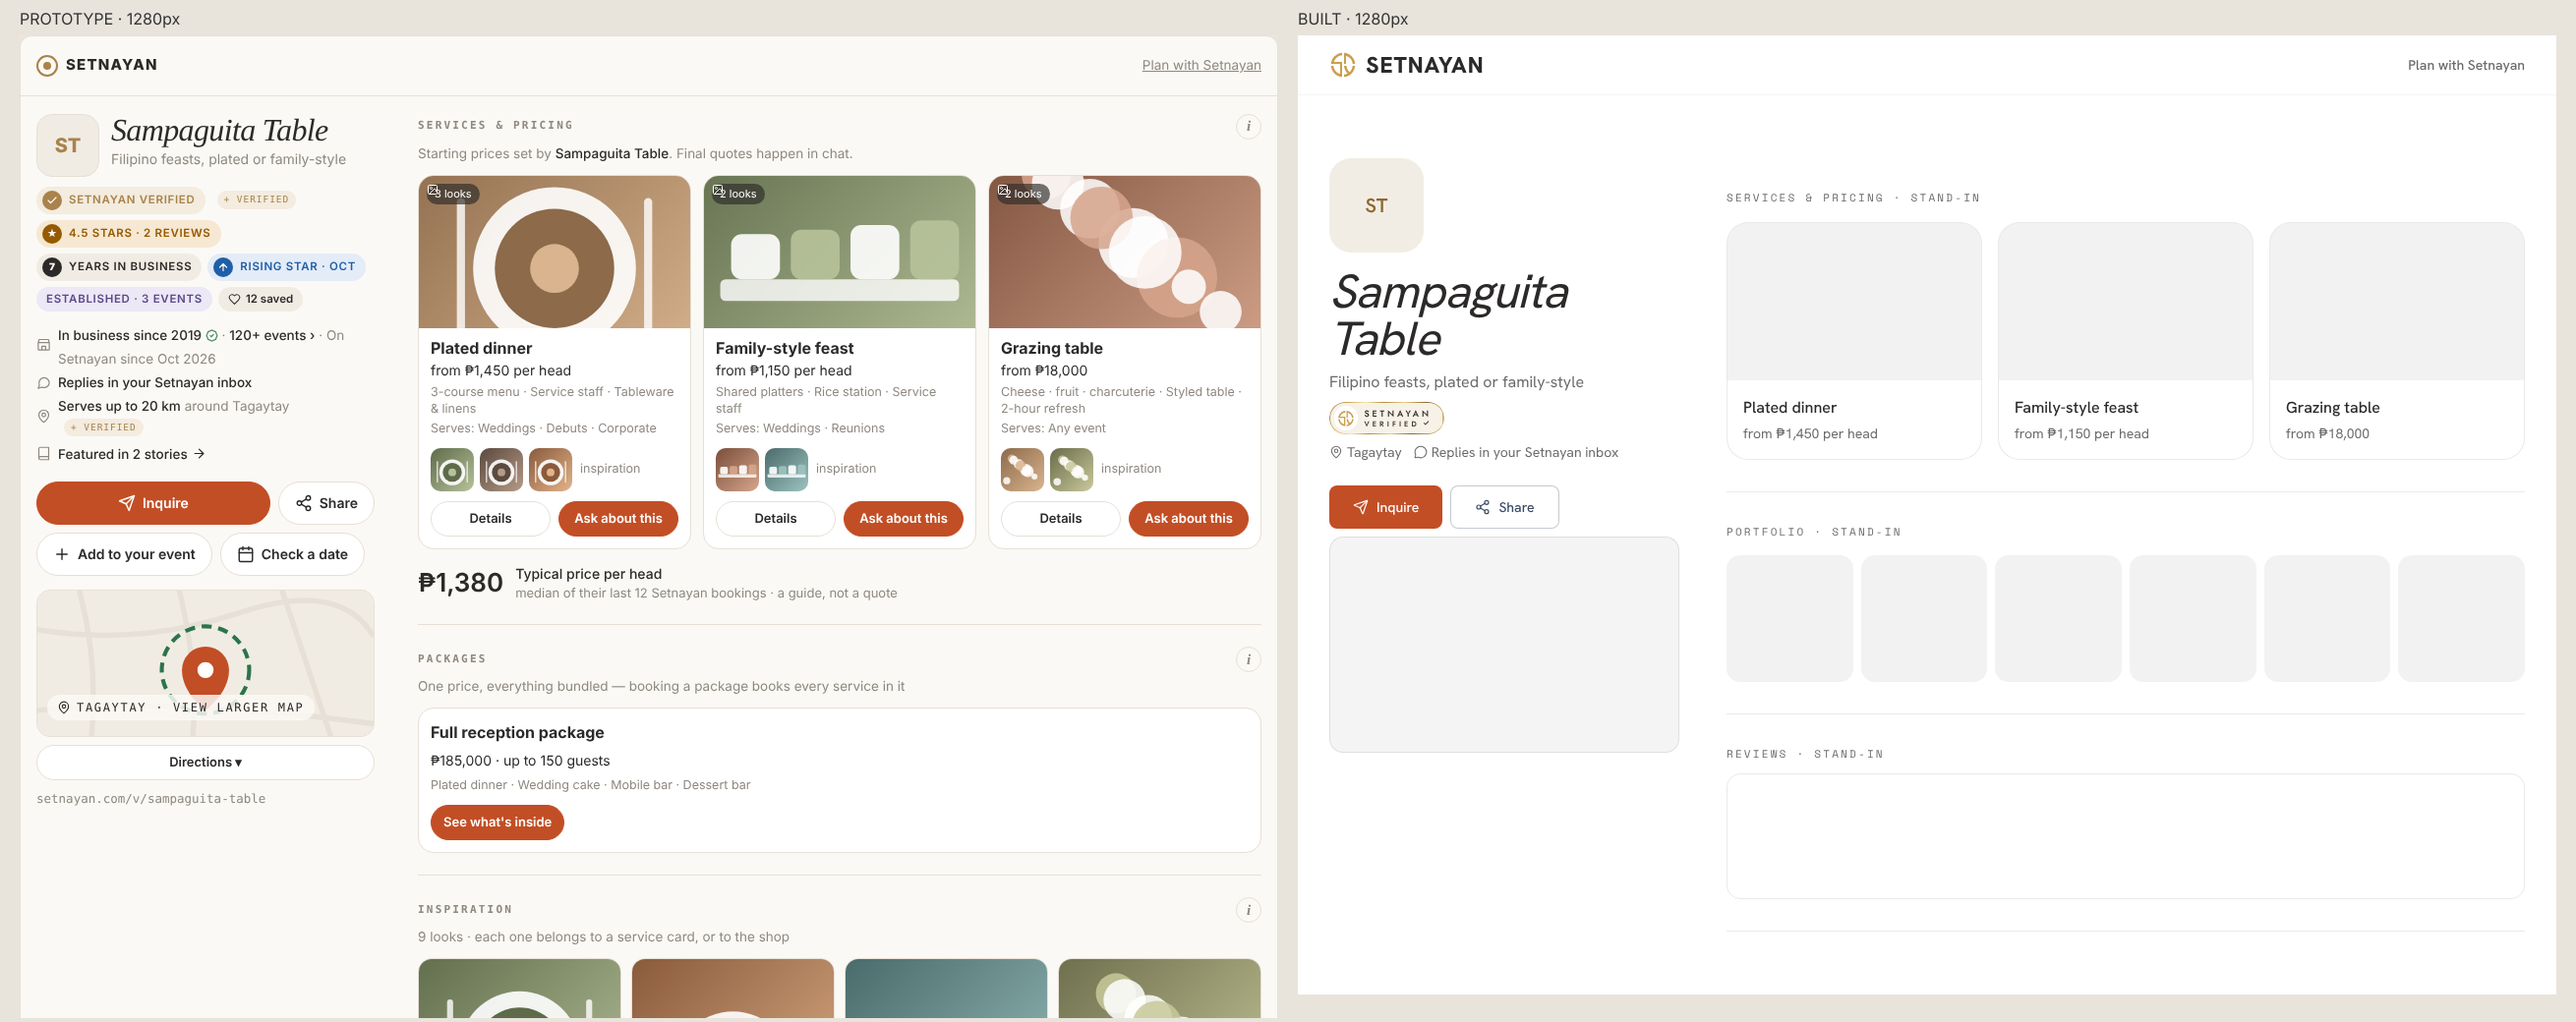
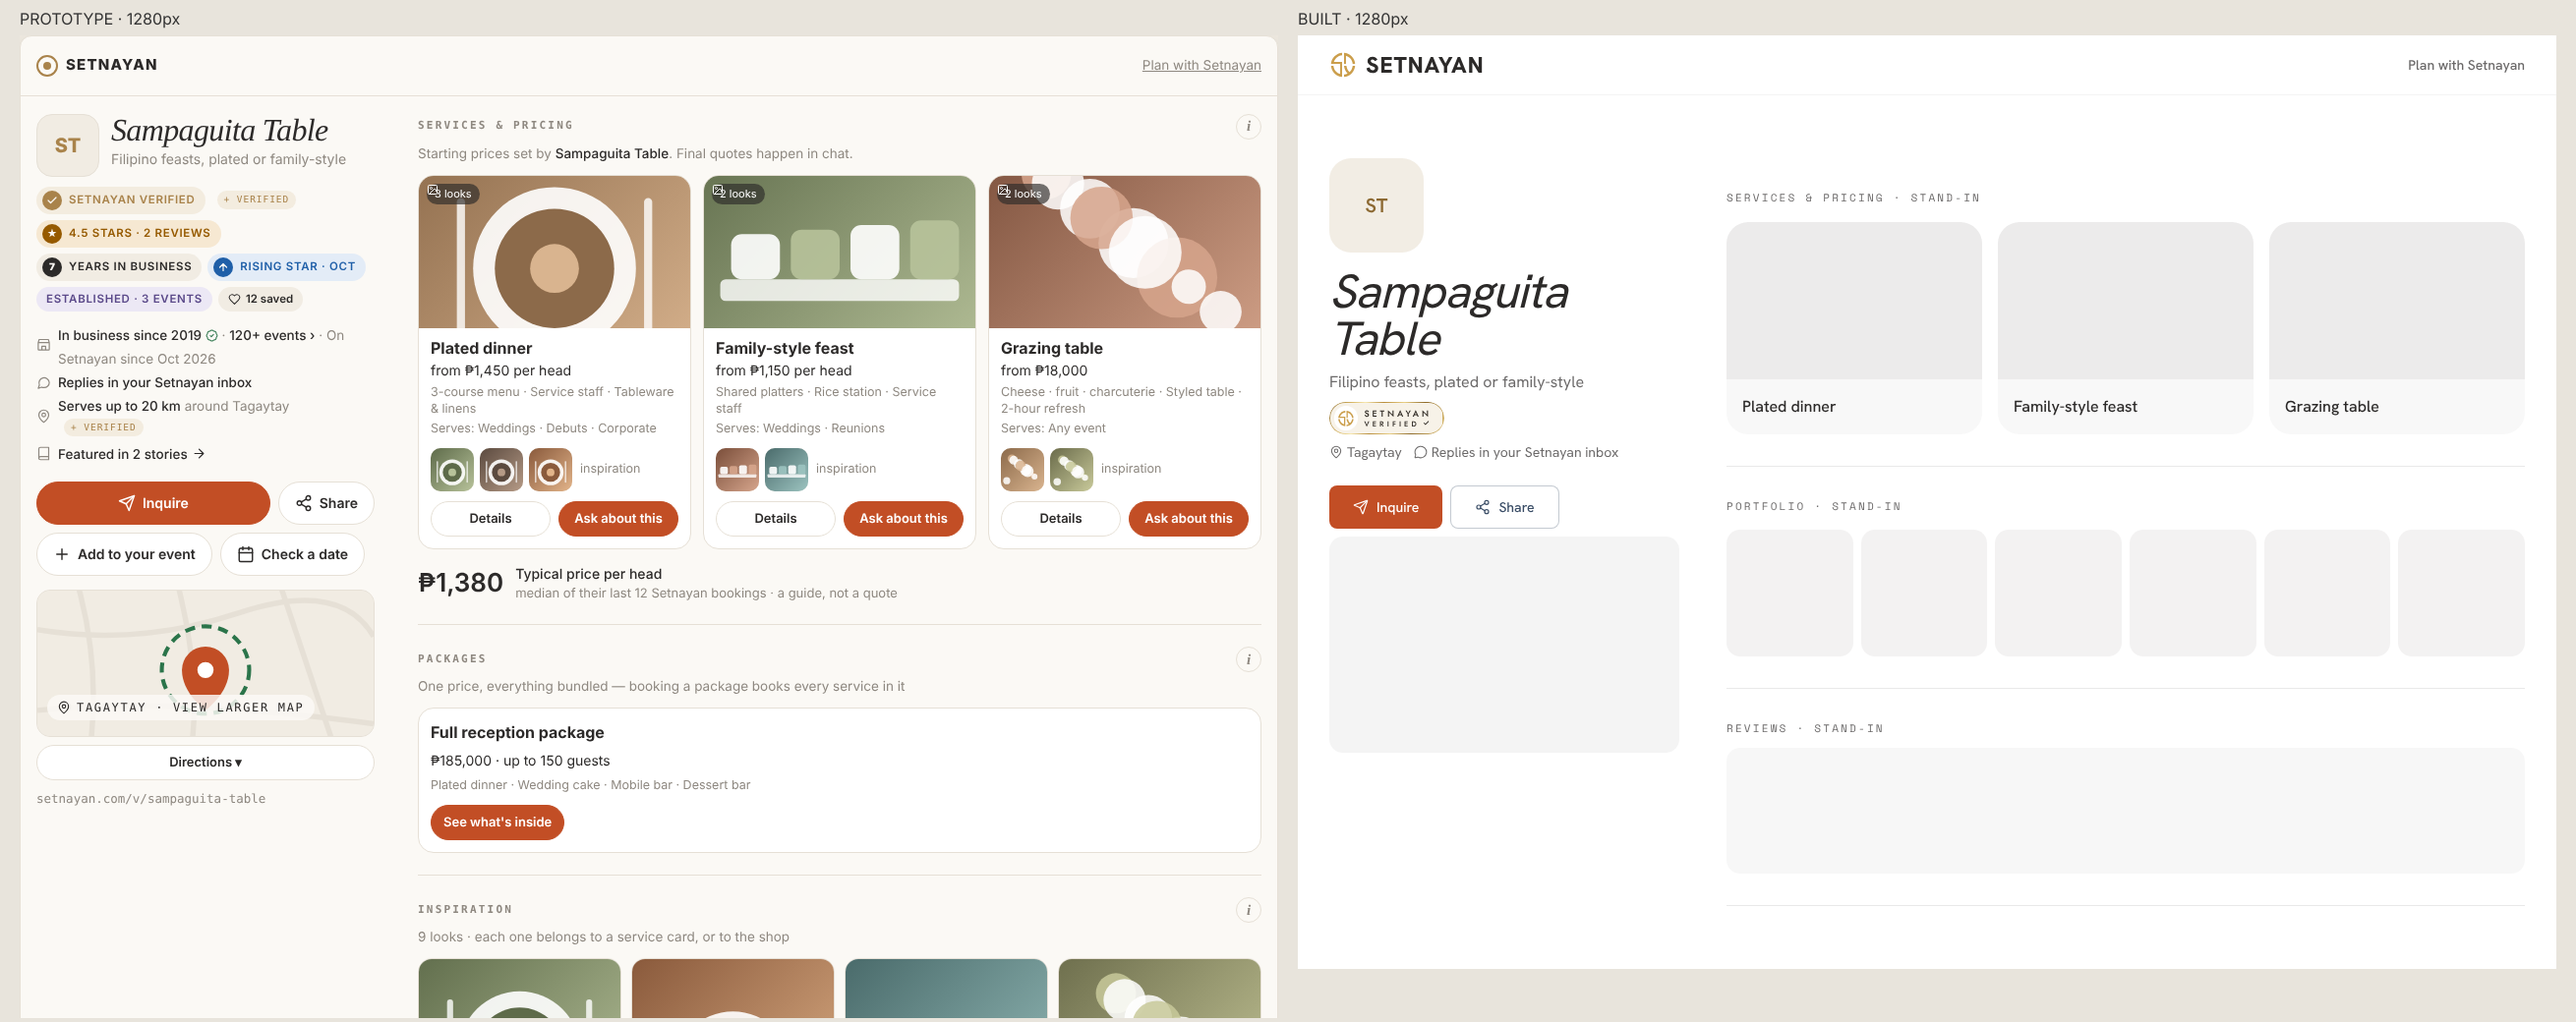
shots: slice 4 layout re-shot after the lab lost its frames and prices; Free plan added
Claude-Session: https://claude.ai/code/session_015BPJzicYMniqFGvQNaSkX8

diff --git a/README.md b/README.md
@@ -8,7 +8,7 @@ right = the built pieces on a local dev server through the repo's dev labs (no d
 |---|---|---|
 | 2 · since line, events by kind, Check a date | `s2-facts-*`, `s2-events-sheet-*` | `/dev/shop-page-lab` |
 | 3 · reach by plan, own address, pinned review | `s3-{free,verified,solo,pro,ultra}-*` | `/dev/shop-plan-lab?plan=…` |
-| 4 · card column beside the page, full width | `s4-layout-*` | `/dev/shop-layout-lab` |
+| 4 · card column beside the page, full width | `s4-layout-*` (Verified), `s4-layout-free-*` (Free) | `/dev/shop-layout-lab` |
 
 Widths: 390 · 820 · 1280. The sandbox that took these blocks openstreetmap.org, so the maps show no streets
 (the shipped pin map is an empty frame; `ReachMap` shows its ring and pin on a plain ground).
